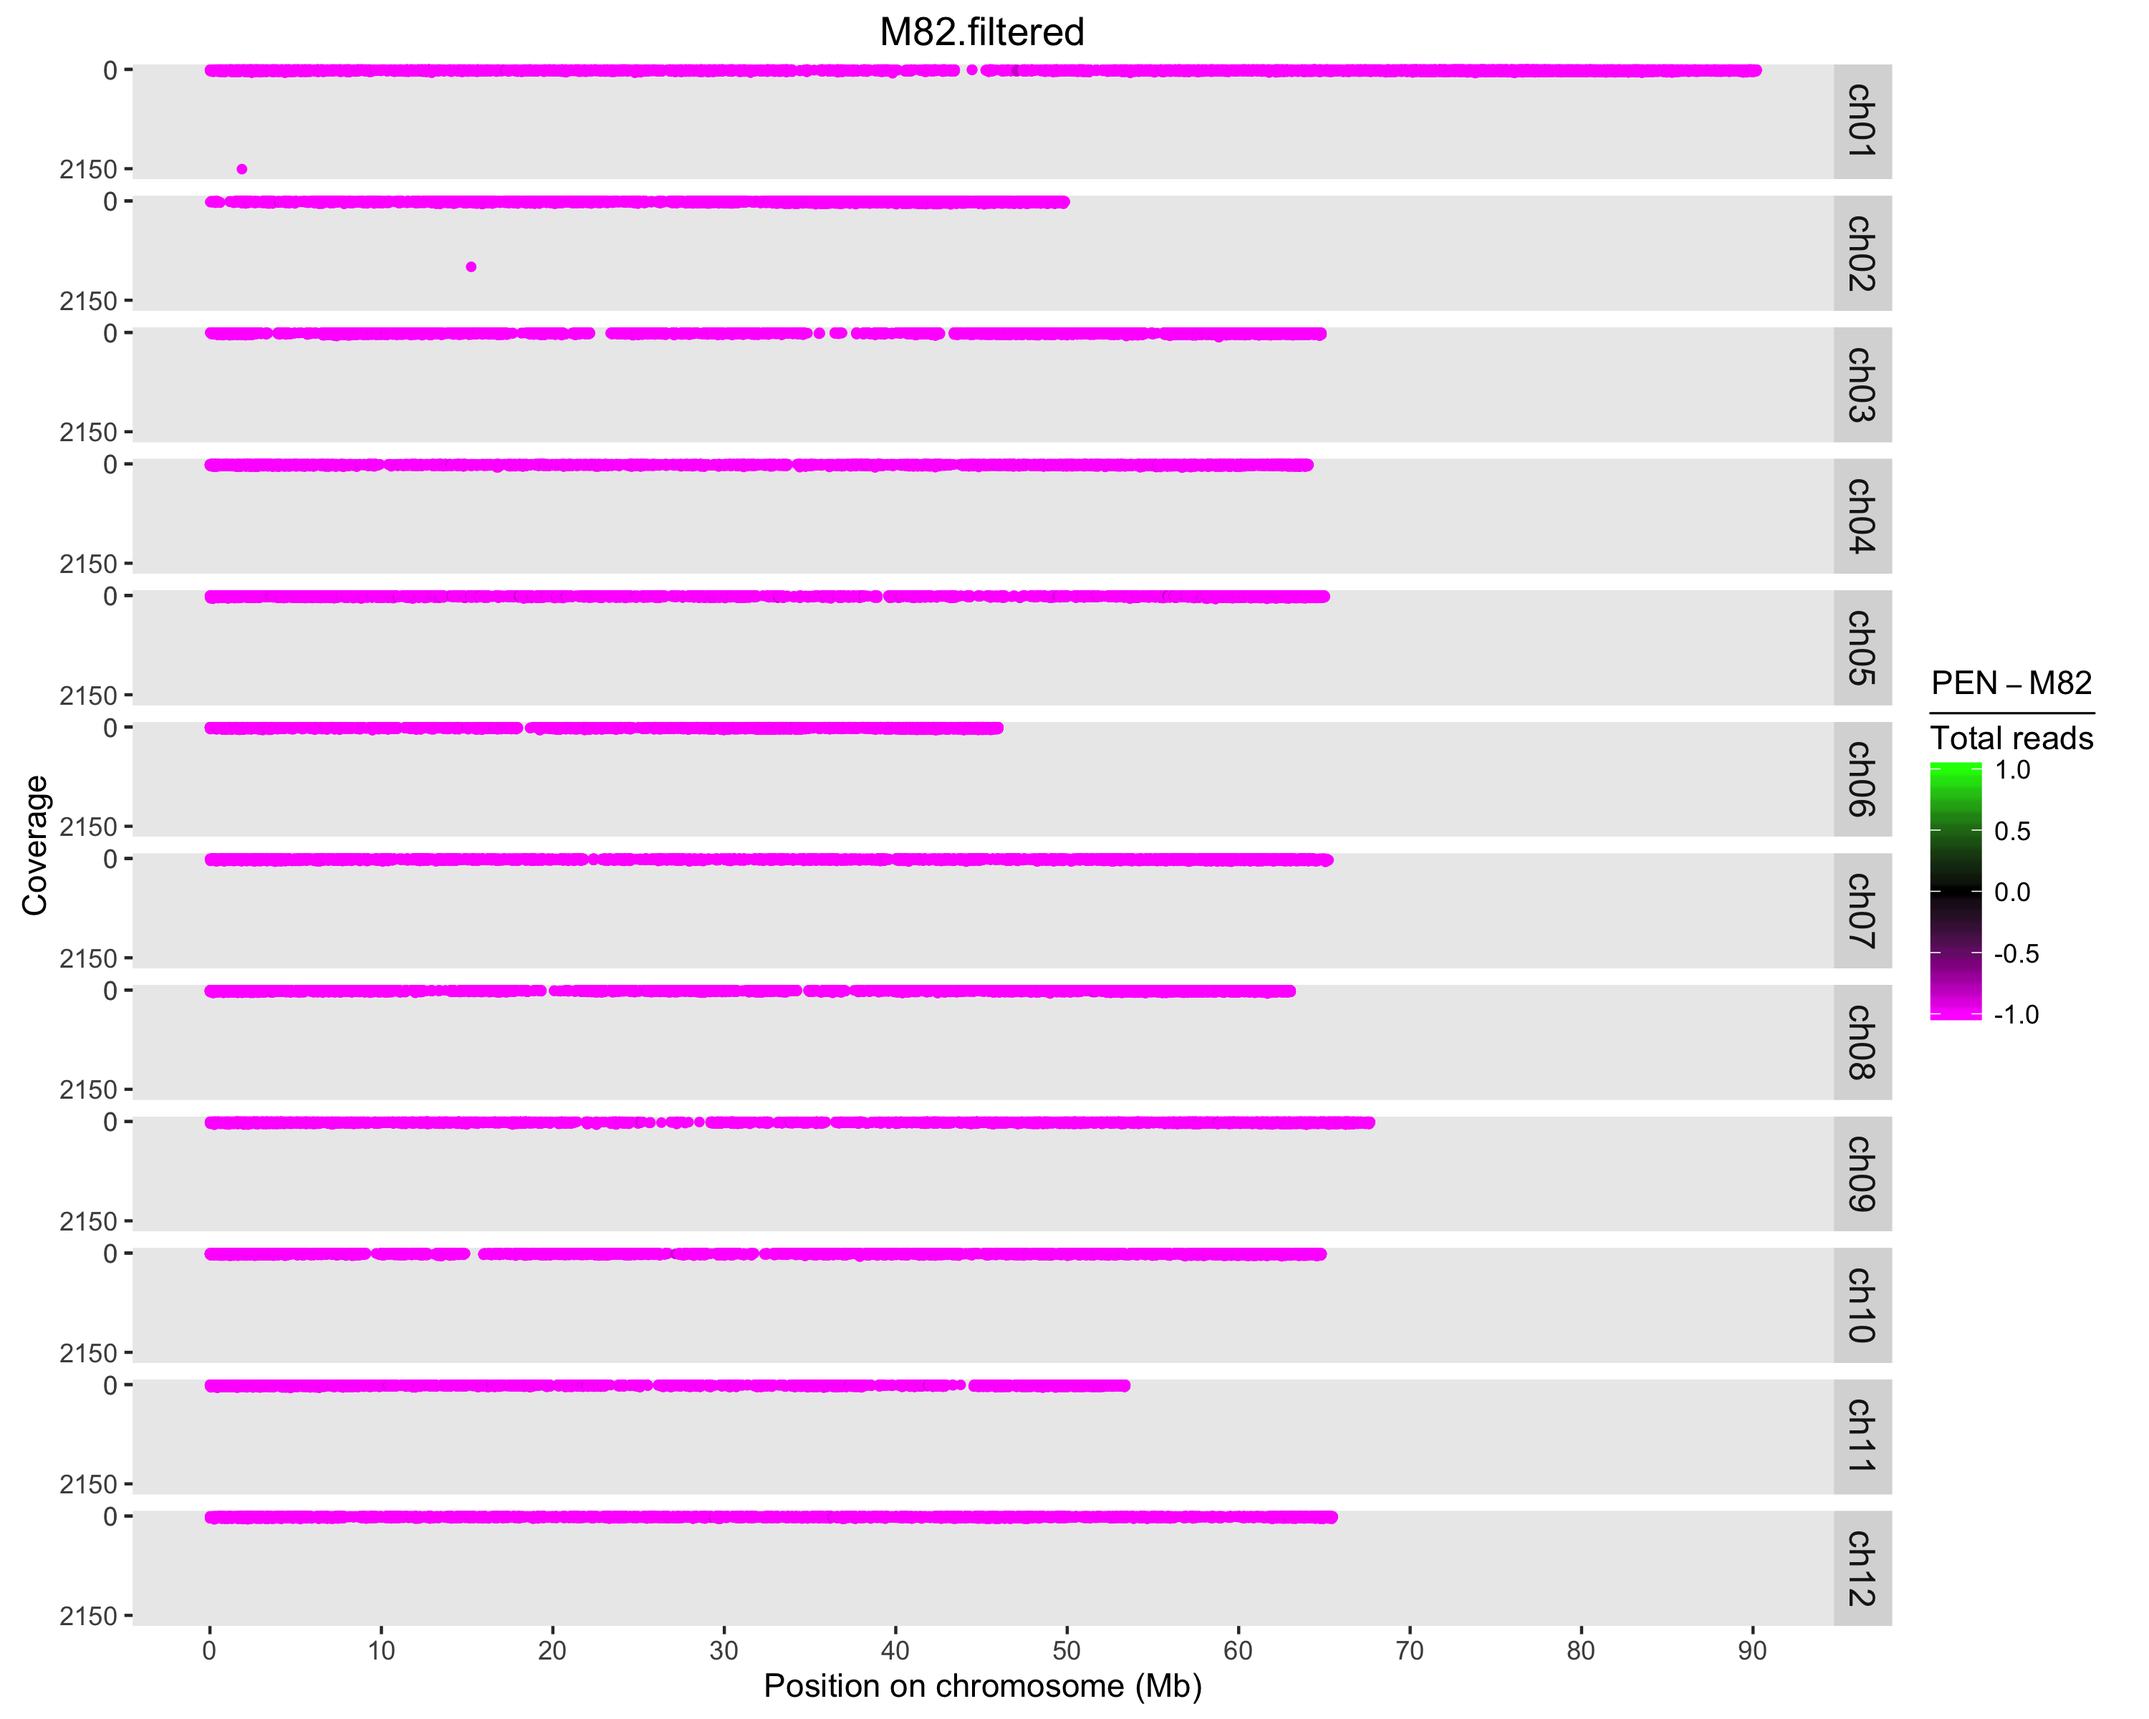
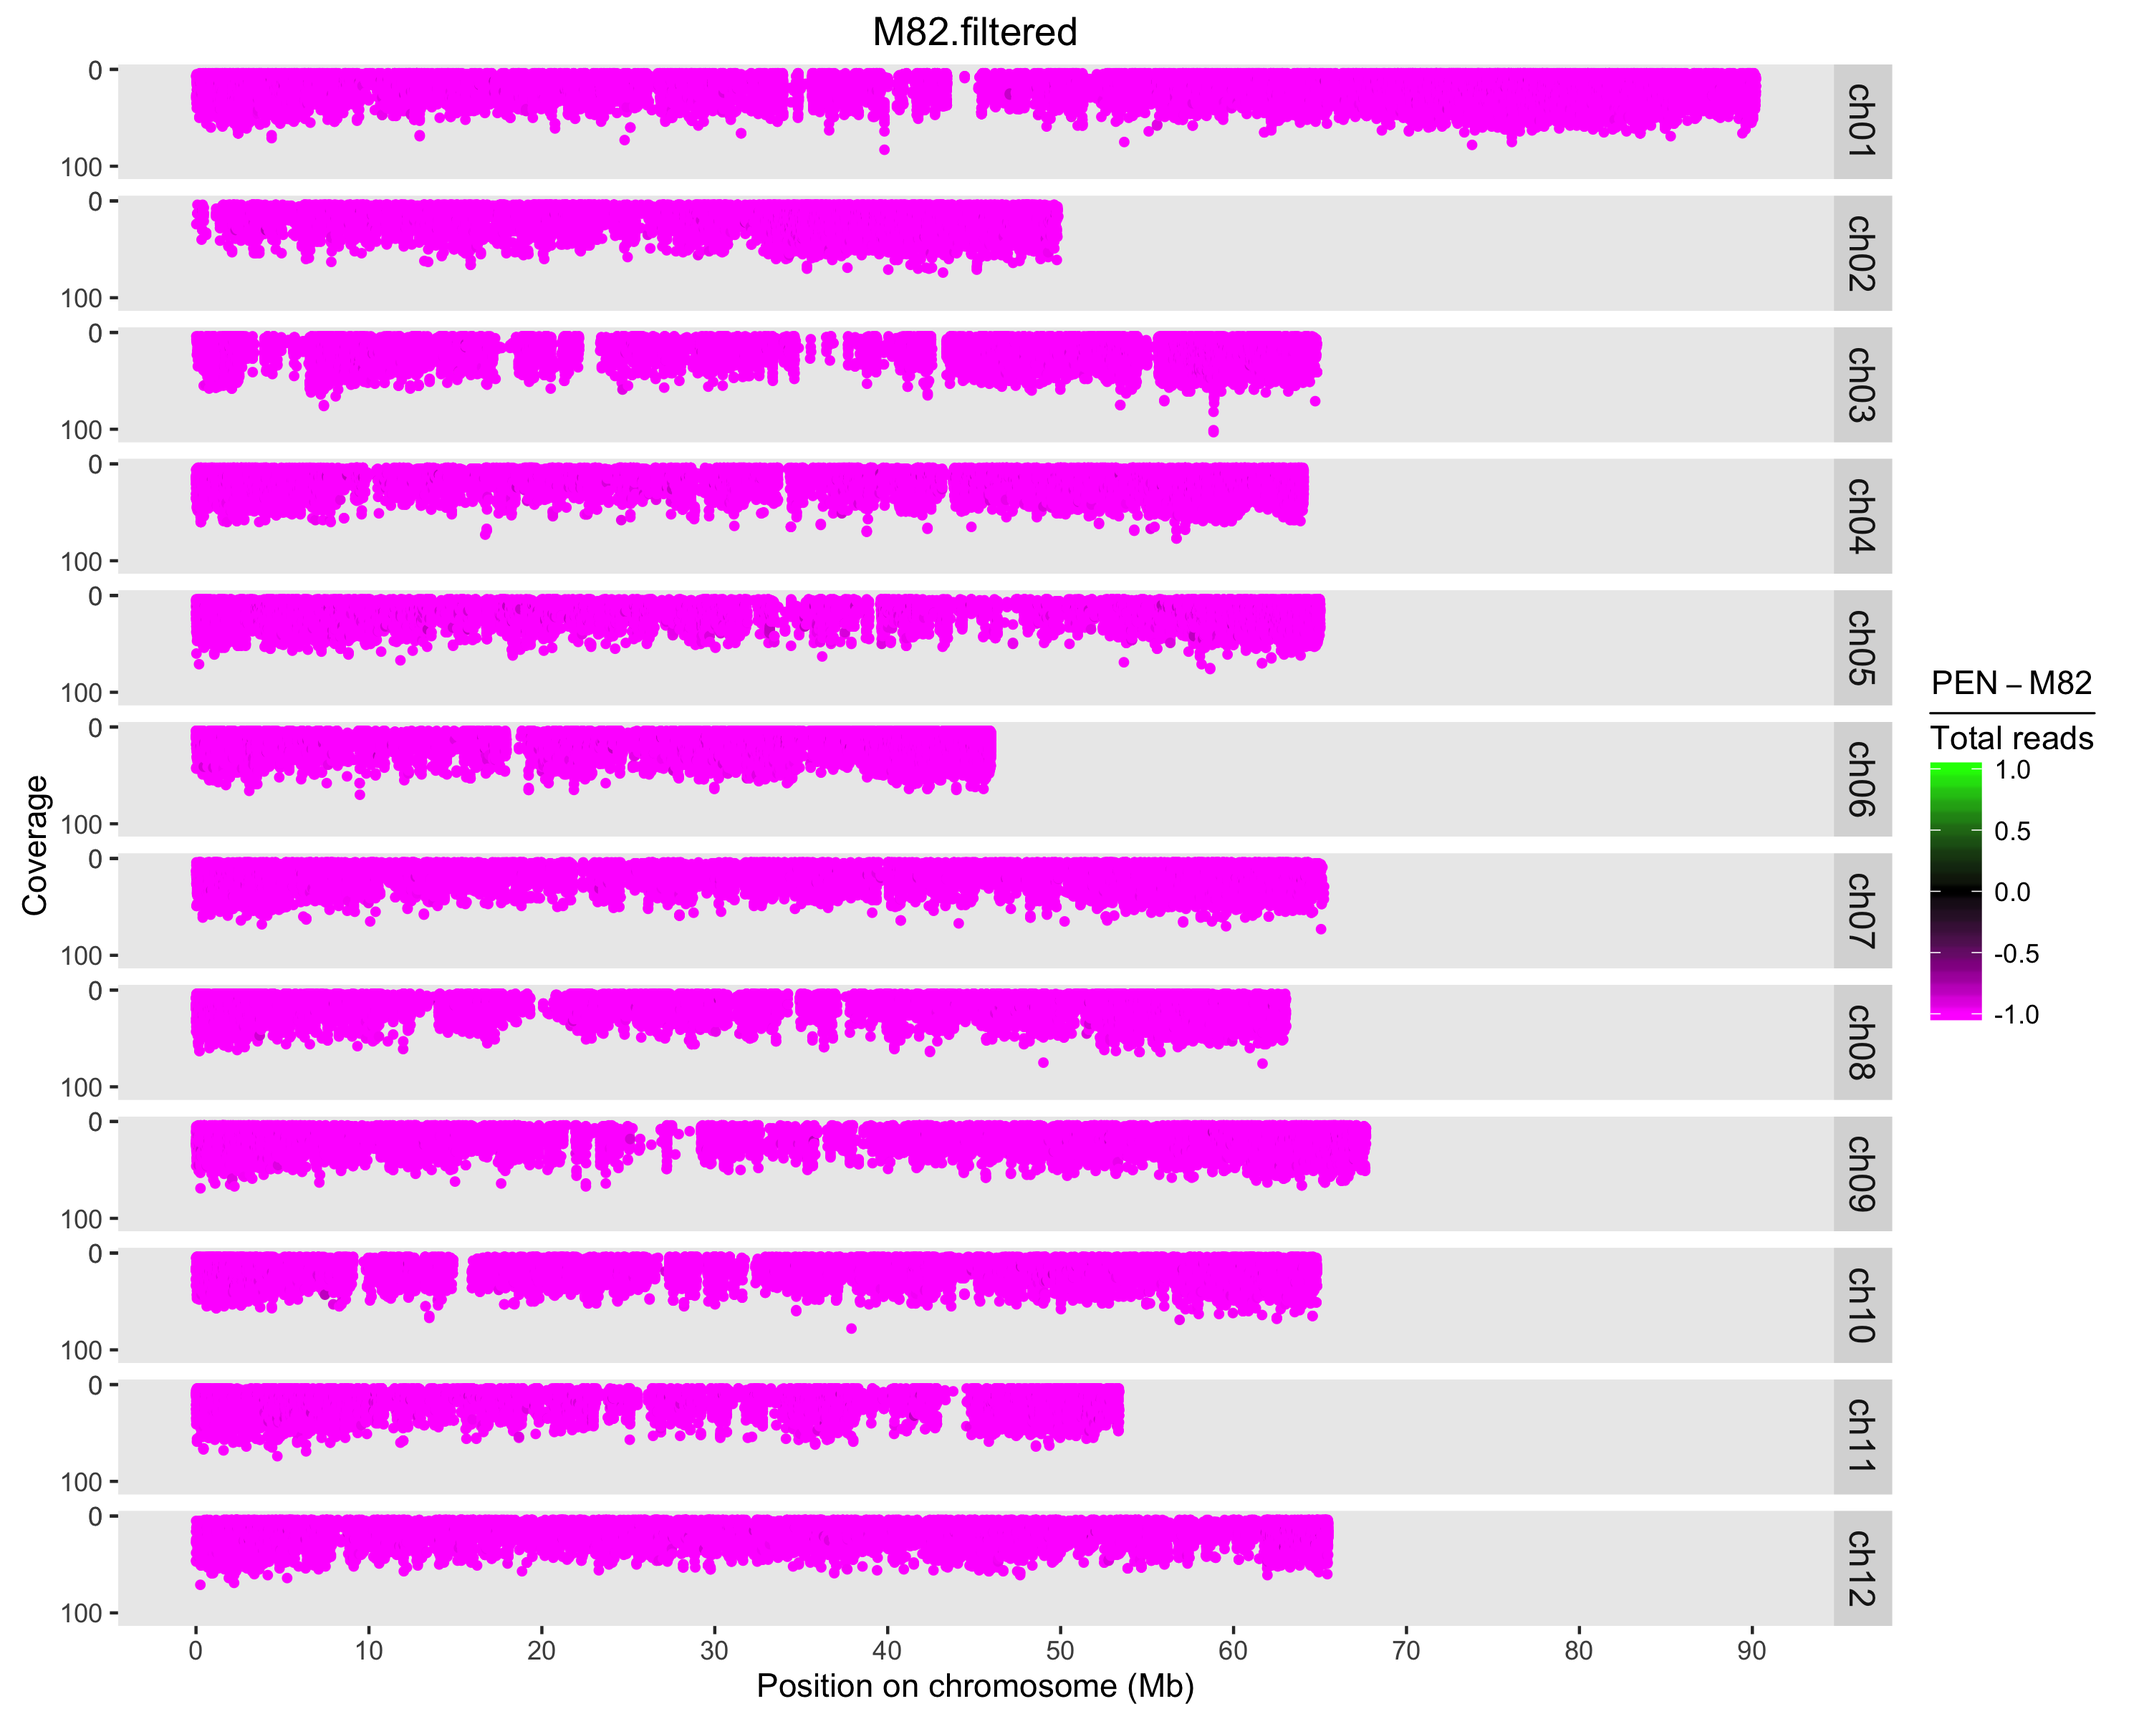
Plot parental samples after removing parental-specific high-coverage outliers

diff --git a/docs/polymorphism-identification.md b/docs/polymorphism-identification.md
@@ -13,6 +13,7 @@
     - [Plot Merged and Filtered BIL Data](#plot-merged-and-filtered-bil-data)
     - [Filter Polymorphism Files Based on Positions Observed in Filtered Genotyped Files](#filter-polymorphism-files-based-on-positions-observed-in-filtered-genotyped-files)
     - [Plot Parental Samples After Filtering](#plot-parental-samples-after-filtering)
+    - [Plot Parental Samples After Removing Parental-Specific High-Coverage Outliers](#plot-parental-samples-after-removing-parental-specific-high-coverage-outliers)
 
 <!-- /MarkdownTOC -->
 
@@ -442,6 +443,42 @@ for ID in $PAR1 $PAR2; do
       --out $OUT_DIR \
       --id $ID
 
+    $BIN/Plot/genoplot_by_id.pl \
+      --id          $ID.filtered \
+      --par1        $PAR1 \
+      --par2        $PAR2 \
+      --bam         $BAM_DIR/${ID}_unreped_repeat_filtered.sorted.bam \
+      --seq_list    $SEQ_LIST \
+      --out_dir     $OUT_DIR \
+      --col_par1    magenta \
+      --col_par2    green \
+      --chr_pat     SL2.40 \
+      --chr_sub     ''
+
+    mv $OUT_DIR/genoplot/$ID.filtered.png $OUT_DIR/genoplot/$ID.filtered.with-outliers.png
+
+done
+```
+
+![M82 (post-filtering, with-outliers)](../data/genoplot/M82.filtered.with-outliers.png "M82 (post-filtering, with-outliers)")
+![PEN (post-filtering, with-outliers)](../data/genoplot/PEN.filtered.with-outliers.png "PEN (post-filtering, with-outliers)")
+
+
+## Plot Parental Samples After Removing Parental-Specific High-Coverage Outliers
+
+More than 99.999% of the polymorphism positions have parental genotype information from 4 to 186 reads per parent. There are 7 positions with coverage in the thousands for one or both of the parents. We remove these outliers from the filtered parental genotyped files and from the polymorphism database.
+
+```sh
+for FILE in $OUT_DIR/genotyped/M82.filtered.*.nr $OUT_DIR/genotyped/PEN.filtered.*.nr $OUT_DIR/snp_master/polyDB.*.nr; do
+    grep -v $FILE > $FILE.filtered \
+      -e $'SL2.40ch01\t1866676'  -e $'SL2.40ch02\t15236040' -e $'SL2.40ch05\t58235463' \
+      -e $'SL2.40ch05\t58235490' -e $'SL2.40ch12\t870464'   -e $'SL2.40ch12\t27506567' \
+      -e $'SL2.40ch12\t27506593'
+
+    mv $FILE.filtered $FILE
+done
+
+for ID in $PAR1 $PAR2; do
     $BIN/Plot/genoplot_by_id.pl \
       --id          $ID.filtered \
       --par1        $PAR1 \
